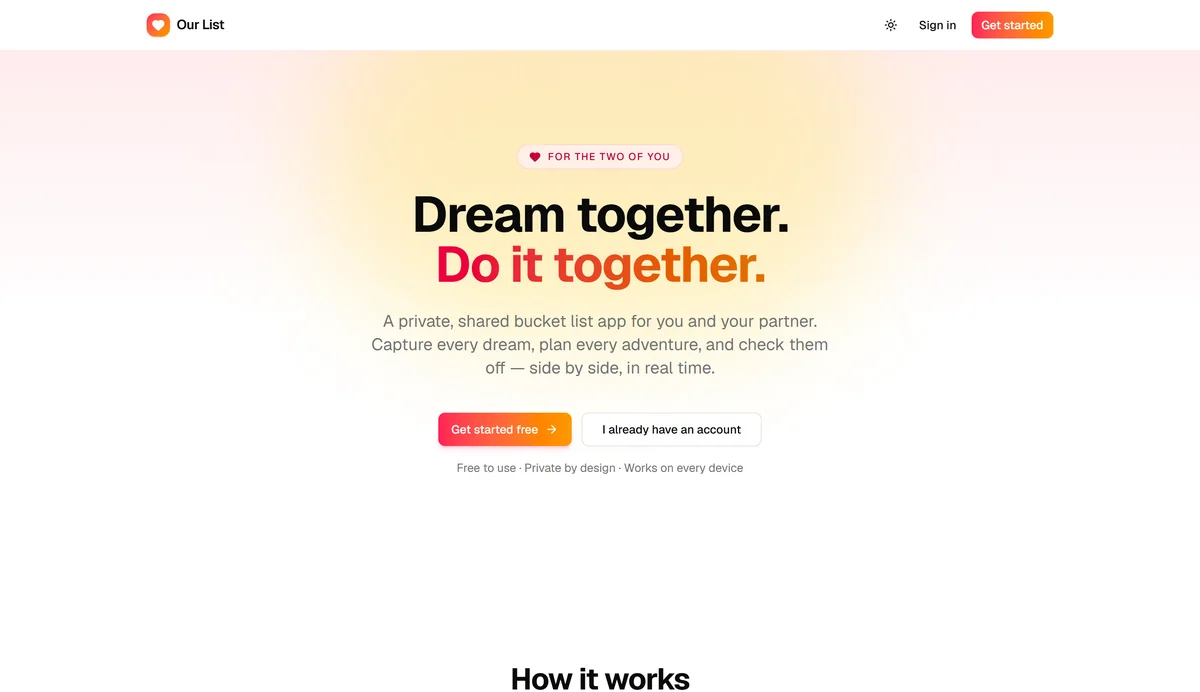
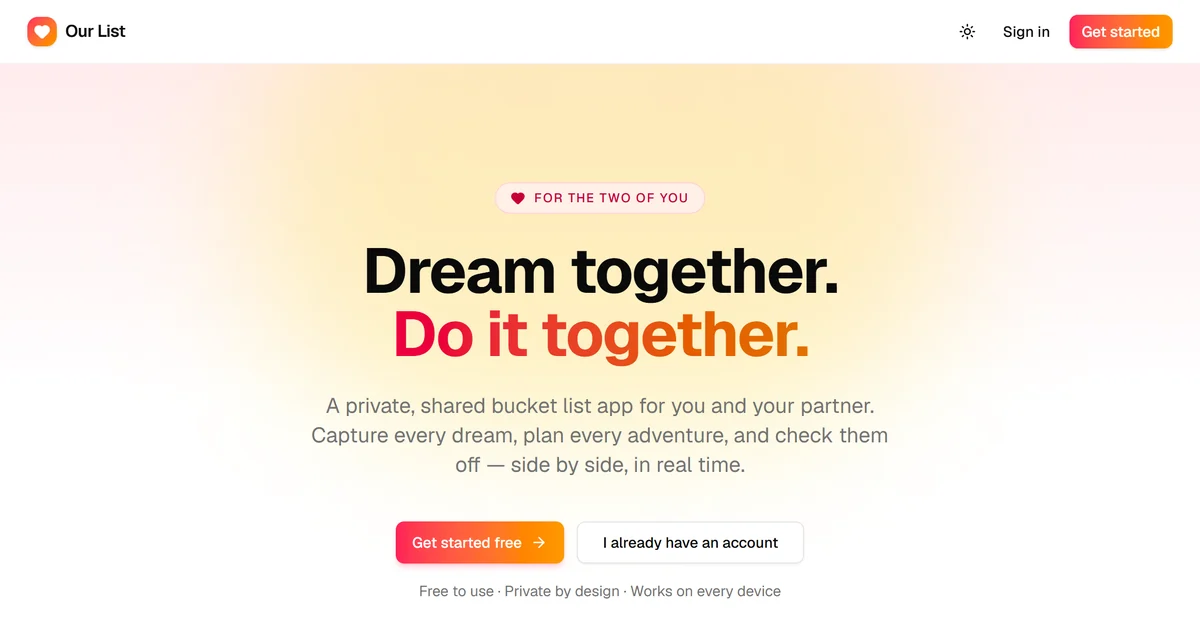
Fix stretched OurList screenshot in project card

diff --git a/style.css b/style.css
@@ -600,14 +600,11 @@ em { font-family: var(--serif); font-style: italic; font-weight: 400; }
 .ourlist-visual {
     background: radial-gradient(circle at 20% 15%, rgba(255, 196, 120, .55), transparent 50%), radial-gradient(circle at 85% 90%, rgba(255, 70, 110, .45), transparent 55%), linear-gradient(150deg, #2a1418, #160f14);
 }
-.ol-browser { position: absolute; top: 13%; left: 6%; width: 72%; transition: transform .8s var(--ease); }
-.ol-browser img { width: 100%; display: block; }
-.ol-phone { width: 23%; top: auto; left: auto; bottom: 7%; transform: none; }
-.ol-p1 { right: 19%; bottom: 5%; transform: rotate(-4deg); z-index: 2; }
-.ol-p2 { right: 4%; bottom: 12%; transform: rotate(5deg); z-index: 1; }
-.project:hover .ol-p1 { transform: rotate(-6deg) translateY(-8px); }
-.project:hover .ol-p2 { transform: rotate(8deg) translate(6px, -4px); }
-.project:hover .ol-browser { transform: translateY(-4px); }
+.ol-browser { position: absolute; top: 50%; left: 6%; width: 76%; transform: translateY(-46%); transition: transform .8s var(--ease); }
+.ol-browser img { width: 100%; height: auto; display: block; }
+.ol-phone { width: 21%; top: auto; left: auto; right: 6%; bottom: 9%; transform: rotate(4deg); z-index: 2; }
+.project:hover .ol-phone { transform: rotate(6deg) translateY(-8px); }
+.project:hover .ol-browser { transform: translateY(-49%); }
 .ourlist-visual .status-chip { background: rgba(12, 11, 15, .6); backdrop-filter: blur(6px); }
 .ourlist-visual .pulse { background: #6ee7a8; }
 
@@ -806,7 +803,7 @@ em { font-family: var(--serif); font-style: italic; font-weight: 400; }
     .m-wide img { width: 100%; min-height: 0; aspect-ratio: 16 / 10; }
     .xp-org { flex-direction: column; align-items: flex-start; }
     .dv-cam { width: 54%; }
-    .ol-phone { width: 30%; }
+    .ol-phone { width: 26%; right: 4%; bottom: 7%; }
     .lens-grid { grid-template-columns: 1fr 1fr; grid-auto-rows: 230px; gap: 10px; }
     .shot { border-radius: 14px; }
     .shot-type { opacity: 1; transform: none; }

diff --git a/index.html b/index.html
@@ -230,10 +230,9 @@
                 <div class="project-visual ourlist-visual tilt">
                     <div class="browser ol-browser">
                         <div class="browser-bar"><i></i><i></i><i></i><span>ourlist.love</span></div>
-                        <img src="assets/img/ourlist-desktop.webp" alt="OurList landing page — Dream together. Do it together." loading="lazy" width="1200" height="692">
+                        <img src="assets/img/ourlist-desktop.webp" alt="OurList landing page — Dream together. Do it together." loading="lazy" width="1200" height="632">
                     </div>
-                    <div class="phone ol-phone ol-p1"><img src="assets/img/ourlist-m1.webp" alt="OurList on mobile" loading="lazy"></div>
-                    <div class="phone ol-phone ol-p2"><img src="assets/img/ourlist-m2.webp" alt="OurList features on mobile — private, real-time sync, multiple lists" loading="lazy"></div>
+                    <div class="phone ol-phone"><img src="assets/img/ourlist-m1.webp" alt="OurList on mobile" loading="lazy"></div>
                     <span class="status-chip"><span class="pulse"></span> Live</span>
                 </div>
                 <div class="project-info">
